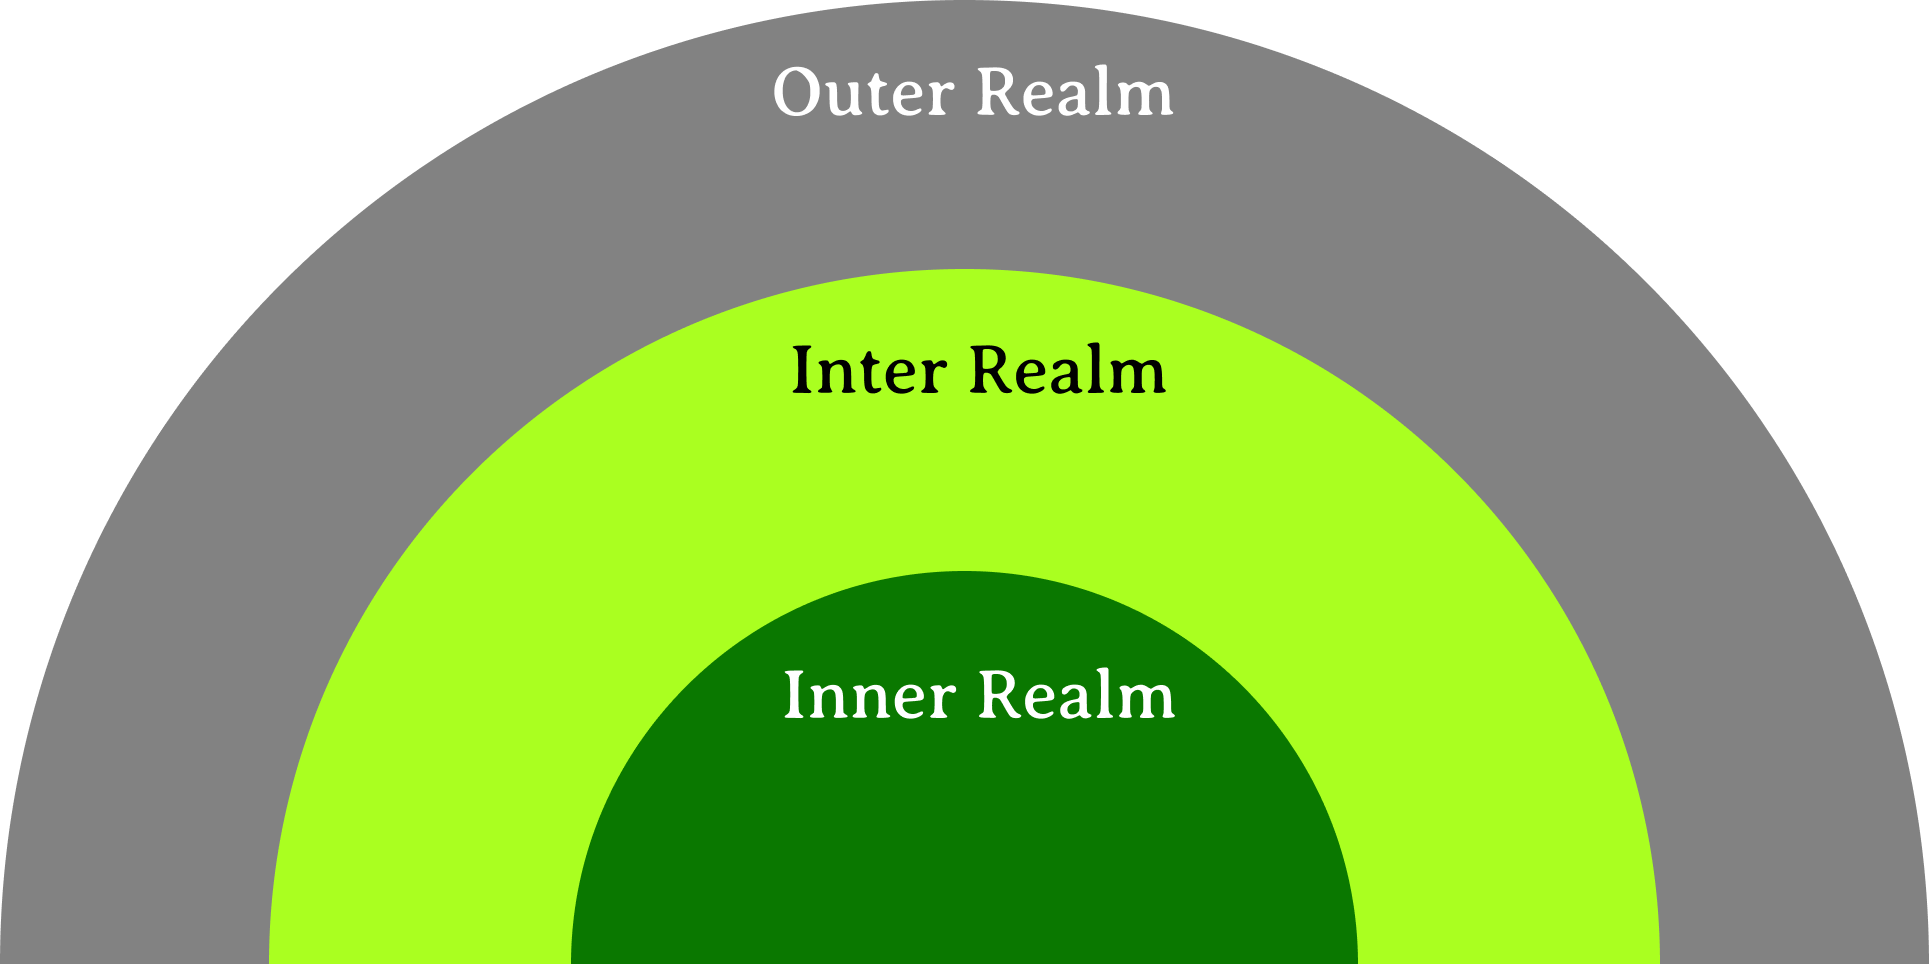
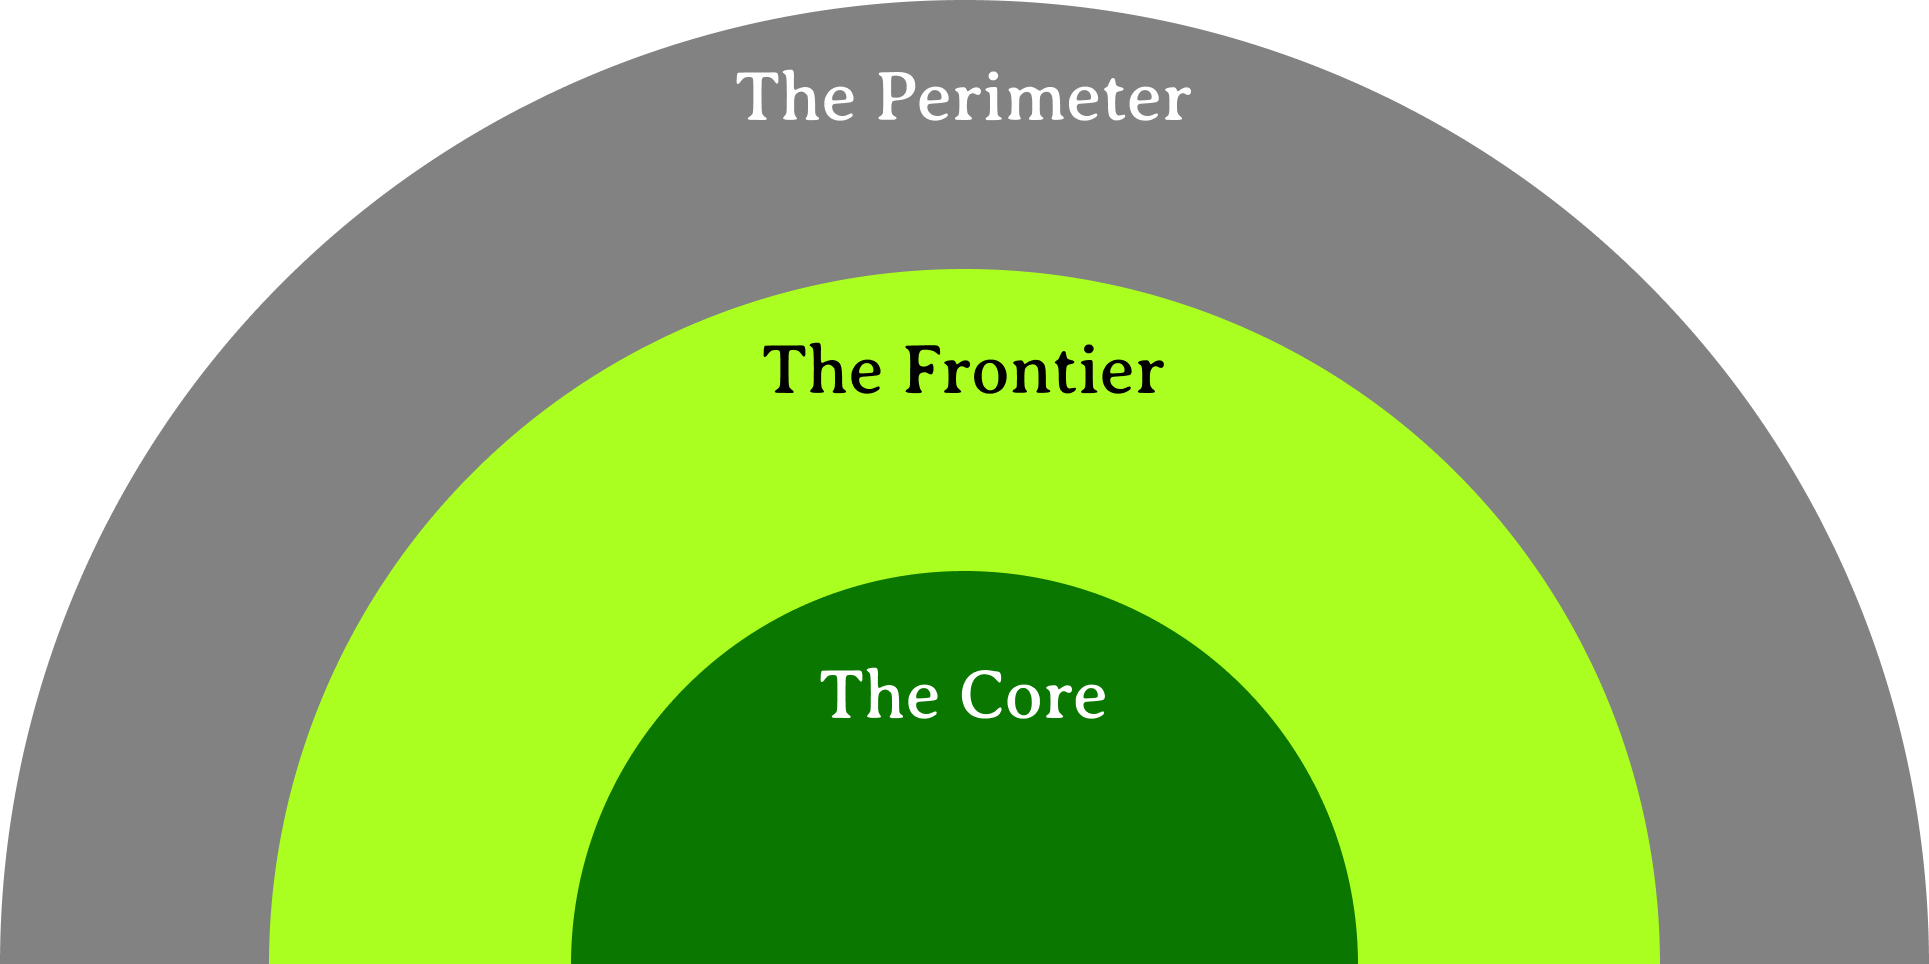
Realms Rewrite

Changed region(s): [[0.3733, 0.0622, 0.6221, 0.1245], [0.4044, 0.6846, 0.6221, 0.7469], [0.4044, 0.3423, 0.6221, 0.4046]]

diff --git a/2_structure.html b/2_structure.html
@@ -78,19 +78,17 @@
       <div class="outerimage">
         <img src="img/networkintro.jpeg" />
       </div>
-      
-      <h1 id="section1">
-        Network Structure
-      </h1>
+
+      <h1 id="section1">Network Structure</h1>
       <div class="innersection panel stack">
         <p>
           The Agorist Network is designed for clarity,
           security, and progressive engagement.
-          Understanding its structure and the different
-          ways you can interact is key to navigating your
-          journey within it.
+          Understanding its structure and the different ways
+          you can interact is key to navigating your journey
+          within it.
         </p>
-        
+
         <h2>The Welcome Desk</h2>
         <p>
           The Welcome Desk serves as your initial point of
@@ -98,22 +96,25 @@
           network and the pathways to a new life within it.
           For detailed information on getting started and
           connecting with network hosts, visit our dedicated
-          <a href="2_welcomedesk.html">Welcome Desk page</a>.
+          <a href="2_welcomedesk.html">Welcome Desk page</a
+          >.
         </p>
       </div>
 
       <div class="innersection panel stack">
-        <h2>Understanding the Realms</h2>
+        <h2>Architecture of Trust</h2>
         <p>
-          Our network operates across distinct "realms,"
+          Our network operates across distinct boundaries,
           each with unique characteristics and levels of
           engagement designed to protect our principles and
           foster growth:
         </p>
         <div class="imagenoborder">
-          <img src="img/Realms.png" alt="Network Realms Diagram" />
+          <img
+            src="img/Realms.png"
+            alt="Network Realms Diagram" />
         </div>
-        <h3>Inner Realm:</h3>
+        <h3>The Core:</h3>
         <p>
           The fundamental rule here is no rulers and
           absolute adherence to the Non-Aggression Principle
@@ -122,35 +123,37 @@
           expressed a clear understanding of our network's
           principles and the NAP. While risks are a part of
           life, we aim to safeguard what's essential.
-          Entrance to the network's Inner Realm is managed
-          through Admissions. You can establish yourself as
-          a trusted member by connecting with a Network
-          Host, joining a caravan, or studying materials in
-          The Library to gain the necessary knowledge. Feel
-          free to apply at any time.
+          Entrance to the network's Core is managed through
+          Admissions. You can establish yourself as a
+          trusted member by connecting with a Network Host,
+          joining a caravan, or studying materials in The
+          Library to gain the necessary knowledge. Feel free
+          to apply at any time.
         </p>
-        <h3>Inter Realm:</h3>
+        <h3>The Frontier:</h3>
         <p>
-          Wherever a caravan travels becomes the Inter
-          Realm. Our buses, adorned with clear signage,
-          often do much of our activism, making our presence
-          known in outer city outposts and other locations.
-          This realm is designed to help people transition
-          and understand that living here isn't an escape
-          from a lack of meaning, but a deliberate path
-          towards finding one's best possible vocation and
-          living situation.
+          Wherever a caravan travels becomes a new Frontier.
+          Our buses, adorned with clear signage, often do
+          much of our activism, making our presence known in
+          outer city outposts and other locations. This
+          realm is designed to help people transition and
+          understand that living here isn't an escape from a
+          lack of meaning, but a deliberate path towards
+          finding one's best possible vocation and living
+          situation.
         </p>
-        <h3>Outer Realm:</h3>
+        <h3>The Perimeter:</h3>
         <p>
-          The Outer Realm is where we engage in outreach.
-          This is the space you occupy when you're "behind
-          enemy lines," operating in areas where agorists
-          are few, and maintaining even a bubble of freedom
-          requires constant vigilance.
+          The Perimeter is where we engage in outreach. This
+          is the space you occupy when you're "behind enemy
+          lines," operating in areas where agorists are few,
+          and maintaining even a bubble of freedom requires
+          constant vigilance.
         </p>
         <div class="imagenoborder">
-          <img src="img/LocationsMapped.png" alt="Network Locations Map" />
+          <img
+            src="img/LocationsMapped.png"
+            alt="Network Locations Map" />
         </div>
       </div>
 
@@ -171,21 +174,18 @@
           <h3>Levels</h3>
           <ul>
             <li>
-              <strong>Level 0: The Uninitiated</strong
-              >
+              <strong>Level 0: The Uninitiated</strong>
               Individuals who do not value freedom
               sufficiently to allow others to peacefully
               coexist.
             </li>
             <li>
-              <strong>Level 1: The Outer Network</strong
-              >
+              <strong>Level 1: The Outer Network</strong>
               People who are willing to trade and interact
               with our network.
             </li>
             <li>
-              <strong>Level 2: Trusted Network</strong
-              >
+              <strong>Level 2: Trusted Network</strong>
               Those who respect the Non-Aggression Principle
               (NAP), the self-defense principle, and refrain
               from advocating for or taking direct action
@@ -196,8 +196,7 @@
               possess authority.
             </li>
             <li>
-              <strong>Level 3: Preferred Network</strong
-              >
+              <strong>Level 3: Preferred Network</strong>
               Those from Level 2 who also prioritize
               interactions with individuals aiming to make
               freedom more accessible to others. It's a
@@ -211,8 +210,7 @@
               strengthen the subnet.
             </li>
             <li>
-              <strong>Level 5: The Active-Subnet</strong
-              >
+              <strong>Level 5: The Active-Subnet</strong>
               Includes those in your subnet with whom you
               interact and communicate with on a regular
               basis. This represents the innermost circle of
@@ -285,15 +283,17 @@
           authority.
         </p>
         <p>
-          For detailed historical case studies of flourishing
-          stateless societiesâ€”including the Icelandic
-          Commonwealth, Xeer legal system, Brehon Law, and
-          othersâ€”explore our comprehensive examples page in
-          The Library.
+          For detailed historical case studies of
+          flourishing stateless societiesâ€”including the
+          Icelandic Commonwealth, Xeer legal system, Brehon
+          Law, and othersâ€”explore our comprehensive
+          examples page in The Library.
         </p>
 
         <h5>
-          <a class="button button--block" href="3_examples.html"
+          <a
+            class="button button--block"
+            href="3_examples.html"
             >Link to Anarchy Examples</a
           >
         </h5>
@@ -305,62 +305,93 @@
           </h3>
         </div>
         <p>
-          One of the most practical ways to reduce reliance on
-          state police is through coordinated community response.
-          When disputes or incidents occur, showing up as a group
-          of trusted neighbors creates accountability and often
-          de-escalates situations more effectively than armed
-          authorities.
+          One of the most practical ways to reduce reliance
+          on state police is through coordinated community
+          response. When disputes or incidents occur,
+          showing up as a group of trusted neighbors creates
+          accountability and often de-escalates situations
+          more effectively than armed authorities.
         </p>
         <p>
-          This can take many forms: informal neighborhood watch
-          networks, rapid response communication channels, or
-          simply the understanding that your subnet members will
-          support each other when needed. The presence of multiple
-          witnesses and mediators often prevents conflicts from
-          escalating, while the absence of state involvement keeps
-          situations from turning into criminal matters with
-          life-altering consequences.
+          This can take many forms: informal neighborhood
+          watch networks, rapid response communication
+          channels, or simply the understanding that your
+          subnet members will support each other when
+          needed. The presence of multiple witnesses and
+          mediators often prevents conflicts from
+          escalating, while the absence of state involvement
+          keeps situations from turning into criminal
+          matters with life-altering consequences.
         </p>
         <p>
-          Start small: establish communication with 3-5 nearby
-          network members or trusted neighbors who share your
-          values. Create a simple way to reach each other quickly.
-          Practice showing up for each other in non-emergency
-          situations firstâ€”helping with projects, resolving minor
-          disputes, building trust. This foundation makes
-          coordinated response natural when it matters most.
+          Start small: establish communication with 3-5
+          nearby network members or trusted neighbors who
+          share your values. Create a simple way to reach
+          each other quickly. Practice showing up for each
+          other in non-emergency situations firstâ€”helping
+          with projects, resolving minor disputes, building
+          trust. This foundation makes coordinated response
+          natural when it matters most.
         </p>
       </div>
-      
+
       <div class="innersection panel stack">
         <div class="headerbox">
           <h2>Putting Structure Into Practice</h2>
         </div>
         <p>
-          Understanding the Network's structure is just the beginning. The real value comes from actively engaging with it—building your subnet, progressing through trust levels, and contributing to the strength of both Inner and Inter Realms.
+          Understanding the Network's structure is just the
+          beginning. The real value comes from actively
+          engaging with it—building your subnet, progressing
+          through trust levels, and contributing to the
+          strength of both Inner and Inter Realms.
         </p>
         <p>
-          Remember that these structures exist to serve freedom, not restrict it. They're tools for building trust, protecting what matters, and scaling voluntary cooperation from small groups to large networks. Your participation shapes how these structures evolve.
+          Remember that these structures exist to serve
+          freedom, not restrict it. They're tools for
+          building trust, protecting what matters, and
+          scaling voluntary cooperation from small groups to
+          large networks. Your participation shapes how
+          these structures evolve.
         </p>
         <div class="callout">
           <p><strong>Next Steps:</strong></p>
           <ul>
-            <li>Visit the <a href="2_welcomedesk.html">Welcome Desk</a> to understand trust levels in detail</li>
-            <li>Explore <a href="2_caravanarchy.html">CaravAnarchy</a> to see mobile community structure in action</li>
-            <li>Read <a href="4_admissions.html">Admissions Portal</a> to learn how to access the Inner Realm</li>
-            <li>Check <a href="4_security.html">Security Mesh</a> for how decentralized protection works</li>
+            <li>
+              Visit the
+              <a href="2_welcomedesk.html">Welcome Desk</a>
+              to understand trust levels in detail
+            </li>
+            <li>
+              Explore
+              <a href="2_caravanarchy.html">CaravAnarchy</a>
+              to see mobile community structure in action
+            </li>
+            <li>
+              Read
+              <a href="4_admissions.html"
+                >Admissions Portal</a
+              >
+              to learn how to access the Inner Realm
+            </li>
+            <li>
+              Check
+              <a href="4_security.html">Security Mesh</a>
+              for how decentralized protection works
+            </li>
           </ul>
         </div>
       </div>
-      
-<a href="2_caravanarchy.html">
-  <div class="nextpage">
-    <span class="nextpage-text">Next Page: CaravAnarchy</span>
-    <span class="nextpage-arrow">→</span>
-  </div>
-</a>
-      
+
+      <a href="2_caravanarchy.html">
+        <div class="nextpage">
+          <span class="nextpage-text"
+            >Next Page: CaravAnarchy</span
+          >
+          <span class="nextpage-arrow">→</span>
+        </div>
+      </a>
+
       <div class="footer">
         Contact us:
         <a href="mailto:caravanarchy@proton.me"
